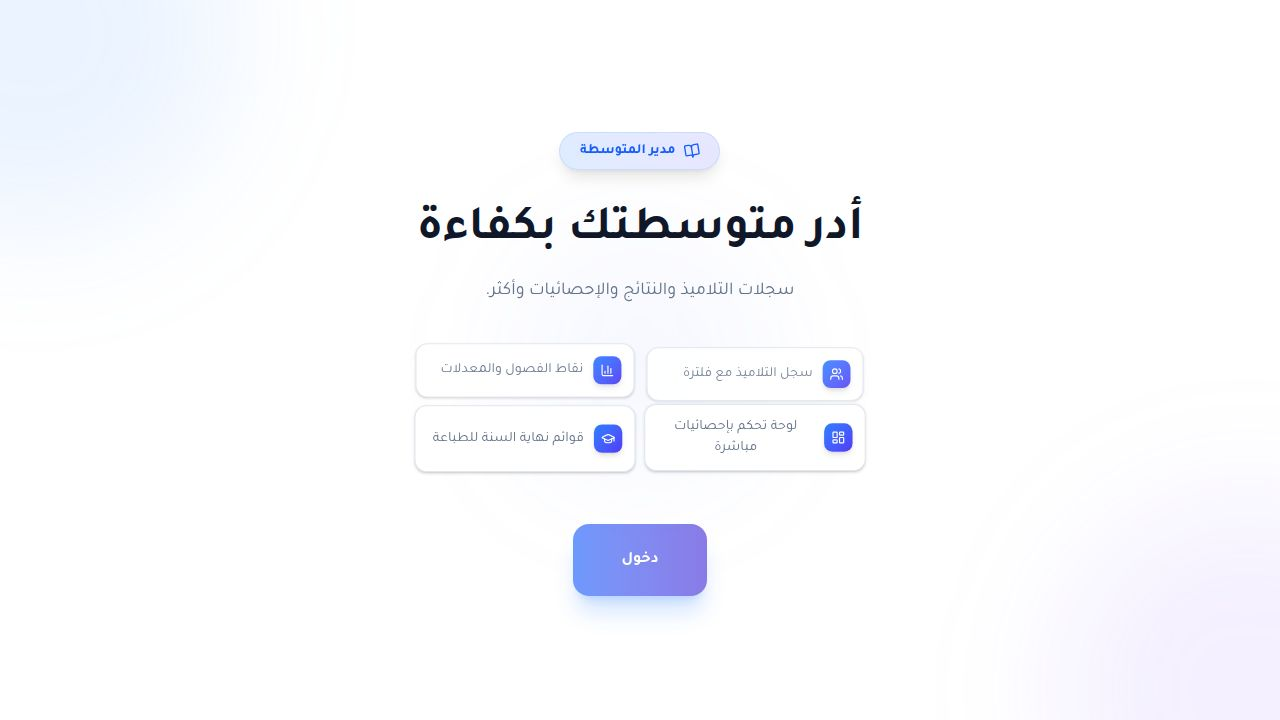
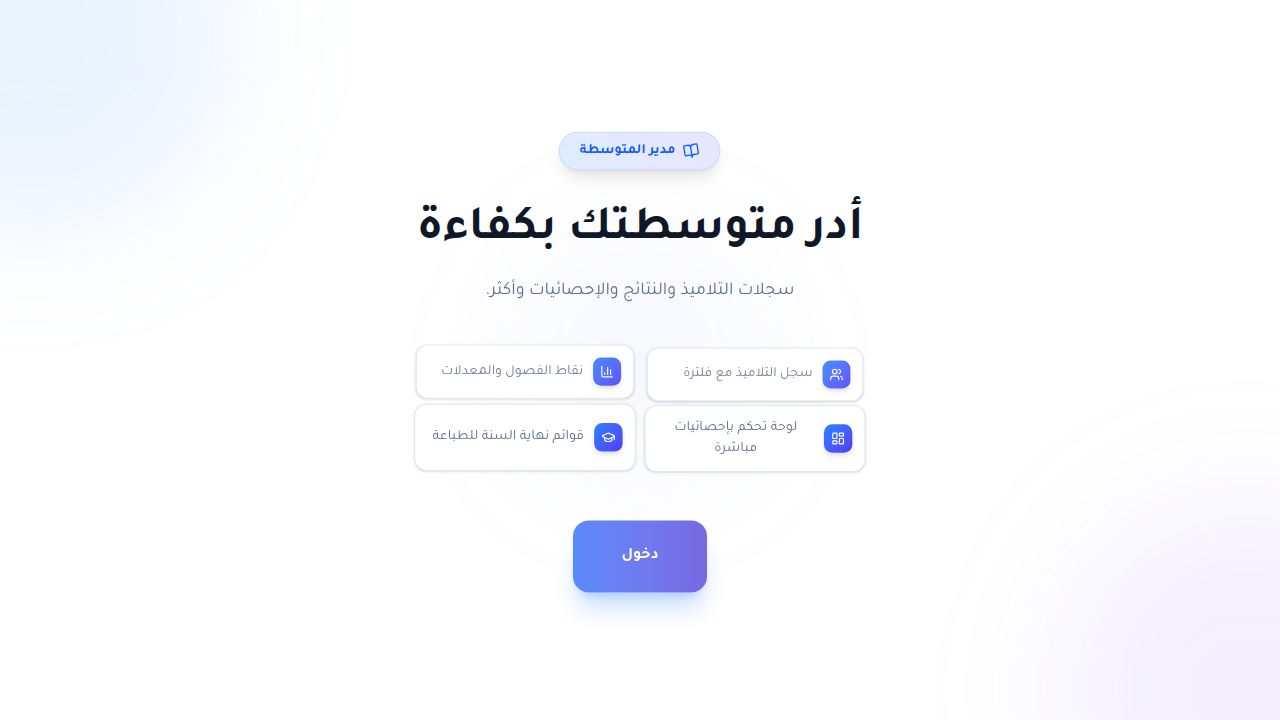
Fix data comparison in analytics by casting values to numbers
Correctly handle comparisons for computed property keys in the ComparisonSection component by casting values to numbers, resolving a TypeScript type error.

Replit-Commit-Author: Agent
Replit-Commit-Session-Id: 50bf1d84-258b-4d9d-9f07-516d625f7e7e
Replit-Commit-Checkpoint-Type: full_checkpoint
Replit-Commit-Event-Id: a3242b9d-762e-4214-a889-9c6e0713886f
Replit-Commit-Screenshot-Url: https://storage.googleapis.com/screenshot-production-us-central1/ed49bab4-589d-401a-8057-2b486dd2df7a/50bf1d84-258b-4d9d-9f07-516d625f7e7e/6yR1POb
Replit-Helium-Checkpoint-Created: true

diff --git a/client/src/pages/analytics.tsx b/client/src/pages/analytics.tsx
@@ -107,7 +107,7 @@ function ComparisonSection({ yearA, yearB }: { yearA: string; yearB: string }) {
       [yearA]: la?.total ?? 0,
       [yearB]: lb?.total ?? 0,
     };
-  }).filter(d => d[yearA] > 0 || d[yearB] > 0);
+  }).filter(d => (d[yearA] as number) > 0 || (d[yearB] as number) > 0);
 
   const successCompare = levels.map(lvl => {
     const la = sA?.byLevel.find(l => l.niveau === lvl);
@@ -121,7 +121,7 @@ function ComparisonSection({ yearA, yearB }: { yearA: string; yearB: string }) {
       [yearA]: rateA,
       [yearB]: rateB,
     };
-  }).filter(d => d[yearA] > 0 || d[yearB] > 0);
+  }).filter(d => (d[yearA] as number) > 0 || (d[yearB] as number) > 0);
 
   // Trend line: total + success rate per year
   const rateA = sA && (sA.admis + sA.nonAdmis) > 0